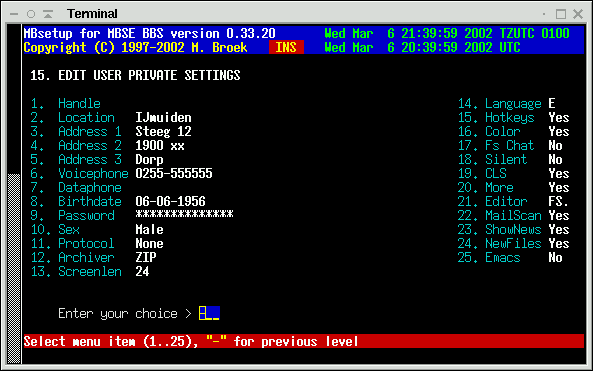
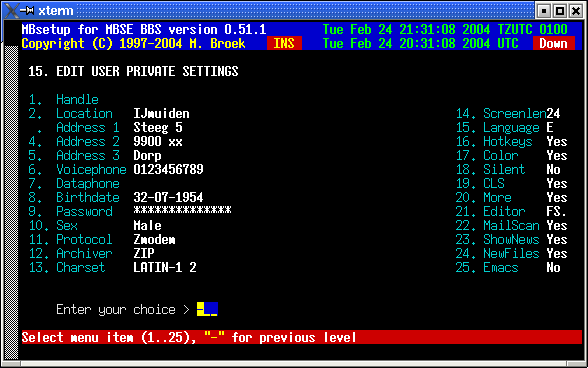
Changed user editor

Changed region(s): [[0.0, 0.0, 1.0, 1.0], [0.0918, 0.8071, 0.3673, 0.8668]]

diff --git a/html/setup/users.html b/html/setup/users.html
@@ -14,7 +14,7 @@
 </HEAD>
 <BODY>
 <BLOCKQUOTE>
-<div align='right'><h5>Last update 01-May-2002</h5></div>
+<div align='right'><h5>Last update 24-Feb-2004</h5></div>
 <div align='center'><H1>MBSE BBS Setup - BBS Users.</H1></div>
 
 <H3>Introduction.</H3>
@@ -79,6 +79,7 @@ system password file and the users home directory manually.
 <strong>Sex          </strong>Users sex, male or female.
 <strong>Protocol     </strong>The selected file transfer protocol.
 <strong>Archiver     </strong>The selected archiver.
+<strong>Charset      </strong>The users preffered character set.
 <strong>Screenlen    </strong>The length (lines) of the users screen.
 <strong>Language     </strong>The language the user uses.
 <strong>Hotkeys      </strong>Hotkeys on/off.

diff --git a/mbsetup/m_users.c b/mbsetup/m_users.c
@@ -295,20 +295,20 @@ void Screen2(void)
 	mvprintw(15, 2, "10. Sex");
 	mvprintw(16, 2, "11. Protocol");
 	mvprintw(17, 2, "12. Archiver");
-	mvprintw(18, 2, "13. Screenlen");
+	mvprintw(18, 2, "13. Charset");
 
-	mvprintw( 6,63, "14. Language");
-	mvprintw( 7,63, "15. Hotkeys");
-	mvprintw( 8,63, "16. Color");
-	mvprintw( 9,63, "17. Fs Chat");
-	mvprintw(10,63, "18. Silent");
-	mvprintw(11,63, "19. CLS");
-	mvprintw(12,63, "20. More");
-	mvprintw(13,63, "21. Editor");
-	mvprintw(14,63, "22. MailScan");
-	mvprintw(15,63, "23. ShowNews");
-	mvprintw(16,63, "24. NewFiles");
-	mvprintw(17,63, "25. Emacs");
+	mvprintw( 7,63, "14. Screenlen");
+	mvprintw( 8,63, "15. Language");
+	mvprintw( 9,63, "16. Hotkeys");
+	mvprintw(10,63, "17. Color");
+	mvprintw(11,63, "18. Silent");
+	mvprintw(12,63, "19. CLS");
+	mvprintw(13,63, "20. More");
+	mvprintw(14,63, "21. Editor");
+	mvprintw(15,63, "22. MailScan");
+	mvprintw(16,63, "23. ShowNews");
+	mvprintw(17,63, "24. NewFiles");
+	mvprintw(18,63, "25. Emacs");
 }
 
 
@@ -330,100 +330,114 @@ void Fields2(void)
 	show_str( 15,17, 7,usrconfig.sSex);
 	show_str( 16,17,12,usrconfig.sProtocol);
 	show_str( 17,17, 5,usrconfig.Archiver);
-	show_int( 18,17,   usrconfig.iScreenLen);
+	show_charset(18,17,usrconfig.Charset);
 
+	show_int(  7,76,   usrconfig.iScreenLen);
 	sprintf(temp, "%c",usrconfig.iLanguage);
-	show_str(  6,76,1, temp);
-	show_bool( 7,76,   usrconfig.HotKeys);
-	show_bool( 8,76,   usrconfig.GraphMode);
-	show_bool( 9,76,   usrconfig.Chat);
-	show_bool(10,76,   usrconfig.DoNotDisturb);
-	show_bool(11,76,   usrconfig.Cls);
-	show_bool(12,76,   usrconfig.More);
-	show_msgeditor(13,76, usrconfig.MsgEditor);
-	show_bool(14,76,   usrconfig.MailScan);
-	show_bool(15,76,   usrconfig.ieNEWS);
-	show_bool(16,76,   usrconfig.ieFILE);
-	show_bool(17,76,   usrconfig.FSemacs);
+	show_str(  8,76,1, temp);
+	show_bool( 9,76,   usrconfig.HotKeys);
+	show_bool(10,76,   usrconfig.GraphMode);
+	show_bool(11,76,   usrconfig.DoNotDisturb);
+	show_bool(12,76,   usrconfig.Cls);
+	show_bool(13,76,   usrconfig.More);
+	show_msgeditor(14,76, usrconfig.MsgEditor);
+	show_bool(15,76,   usrconfig.MailScan);
+	show_bool(16,76,   usrconfig.ieNEWS);
+	show_bool(17,76,   usrconfig.ieFILE);
+	show_bool(18,76,   usrconfig.FSemacs);
 }
 
 
 
 int EditUsrRec2(void)
 {
-	int	j = 0;
-	char	temp[PATH_MAX];
+    int	    j = 0, ch;
+    char    temp[PATH_MAX];
 
-        Screen2();
-        for (;;) {
-                Fields2();
-                j = select_menu(25);
-                switch(j) {
-                case 0: return 0;
-                case 1: E_STR( 6,17,35,usrconfig.sHandle,  "The ^Handle^ of this user")
-                case 2: E_STR( 7,17,27,usrconfig.sLocation,"The users ^Location^")
-                case 3:
-                case 4:
-                case 5: E_STR(j+5,17,40,usrconfig.address[j-3],"^Address^")
-                case 6: E_STR(11,17,16, usrconfig.sVoicePhone, "The ^Voice Phone^ number of this user")
-                case 7: E_STR(12,17,16, usrconfig.sDataPhone,  "The ^Data Phone^ number of this user")
-                case 8: E_STR(13,17,10, usrconfig.sDateOfBirth,"The ^Date of Birth^ in DD-MM-YYYY format")
-                case 9: strcpy(temp,edit_str(14,17,Max_passlen,usrconfig.Password,(char *)"Enter the ^password^ for this user"));
-                        if (strlen(temp)) {
-			    if (strcasecmp(usrconfig.Password, temp)) {
-				/*
-				 * Only do something if password really changed.
-				 */
-				working(1,0,0);
-                                memset(&usrconfig.Password, 0, sizeof(usrconfig.Password));
-                                strcpy(usrconfig.Password, temp);
-				usrconfig.tLastPwdChange = time(NULL);
-				Syslog('+', "%s/bin/mbpasswd -f %s ******", getenv("MBSE_ROOT"), usrconfig.Name);
-				sprintf(temp, "%s/bin/mbpasswd -f %s %s", getenv("MBSE_ROOT"), usrconfig.Name, usrconfig.Password);
-				if (system(temp) != 0) {
-				    WriteError("$Failed to set new Unix password");
-				} else {
-				    Syslog('+', "Password changed for %s (%s)", usrconfig.sUserName, usrconfig.Name);
-				}
+    Screen2();
+    for (;;) {
+        Fields2();
+        j = select_menu(25);
+        switch(j) {
+            case 0: return 0;
+            case 1: E_STR( 6,17,35,usrconfig.sHandle,  "The ^Handle^ of this user")
+            case 2: E_STR( 7,17,27,usrconfig.sLocation,"The users ^Location^")
+            case 3:
+            case 4:
+            case 5: E_STR(j+5,17,40,usrconfig.address[j-3],"^Address^")
+            case 6: E_STR(11,17,16, usrconfig.sVoicePhone, "The ^Voice Phone^ number of this user")
+            case 7: E_STR(12,17,16, usrconfig.sDataPhone,  "The ^Data Phone^ number of this user")
+            case 8: E_STR(13,17,10, usrconfig.sDateOfBirth,"The ^Date of Birth^ in DD-MM-YYYY format")
+            case 9: strcpy(temp,edit_str(14,17,Max_passlen,usrconfig.Password,(char *)"Enter the ^password^ for this user"));
+                    if (strlen(temp)) {
+			if (strcasecmp(usrconfig.Password, temp)) {
+			    /*
+			     * Only do something if password really changed.
+			     */
+			    working(1,0,0);
+                            memset(&usrconfig.Password, 0, sizeof(usrconfig.Password));
+                            strcpy(usrconfig.Password, temp);
+			    usrconfig.tLastPwdChange = time(NULL);
+			    Syslog('+', "%s/bin/mbpasswd -f %s ******", getenv("MBSE_ROOT"), usrconfig.Name);
+			    sprintf(temp, "%s/bin/mbpasswd -f %s %s", getenv("MBSE_ROOT"), usrconfig.Name, usrconfig.Password);
+			    if (system(temp) != 0) {
+			        WriteError("$Failed to set new Unix password");
+			    } else {
+			        Syslog('+', "Password changed for %s (%s)", usrconfig.sUserName, usrconfig.Name);
 			    }
-                        } else {
-			    working(2, 0, 0);
 			}
-                        break;
-                case 10:strcpy(usrconfig.sSex, tl(edit_str(15,17,7, usrconfig.sSex, (char *)"^Male^ or ^Female^")));
-                        break;
-                case 11:strcpy(temp, PickProtocol(15));
-                        if (strlen(temp) != 0)
-                                strcpy(usrconfig.sProtocol, temp);
-                        clr_index();
-                        Screen2();
-                        break;
-                case 12:strcpy(temp, PickArchive((char *)"15"));
-                        if (strlen(temp) != 0)
-                                strcpy(usrconfig.Archiver, temp);
-                        clr_index();
-                        Screen2();
-                        break;
-		case 13:E_INT( 18,17,usrconfig.iScreenLen,   "Users ^Screen length^ in lines (about 24)")
+                    } else {
+		        working(2, 0, 0);
+		    }
+                    break;
+            case 10:showhelp((char *)"Toggle ^Sex^ with spacebar, press <Enter> when done.");
+		    do {
+			set_color(YELLOW, BLUE);
+			show_str(15,17,7, usrconfig.sSex);
+			ch = readkey(15, 17, YELLOW, BLUE);
+			if (ch == ' ') {
+			    if (strcmp(usrconfig.sSex, "Male") == 0)
+				strcpy(usrconfig.sSex, "Female");
+			    else {
+				strcpy(usrconfig.sSex, "Male\0\0");
+			    }
+			}
+		    } while (ch != KEY_ENTER && ch != '\012');
+		    set_color(WHITE, BLACK);
+		    show_str(15,17,7, usrconfig.sSex);
+                    break;
+            case 11:strcpy(temp, PickProtocol(15));
+                    if (strlen(temp) != 0)
+                        strcpy(usrconfig.sProtocol, temp);
+                    clr_index();
+                    Screen2();
+                    break;
+            case 12:strcpy(temp, PickArchive((char *)"15"));
+                    if (strlen(temp) != 0)
+                        strcpy(usrconfig.Archiver, temp);
+                    clr_index();
+                    Screen2();
+                    break;
+	    case 13:usrconfig.Charset = edit_charset(18,17, usrconfig.Charset); break;
 
-		case 14:usrconfig.iLanguage = PickLanguage((char *)"15.14");
-			clr_index();
-			Screen2();
-			break;
-                case 15:E_BOOL( 7,76,usrconfig.HotKeys,      "Is user using ^HotKeys^ for menus")
-                case 16:E_BOOL( 8,76,usrconfig.GraphMode,    "Is user using ^ANSI^ colors")
-                case 17:E_BOOL( 9,76,usrconfig.Chat,         "User has ^IEMSI Chat^ capability")
-                case 18:E_BOOL(10,76,usrconfig.DoNotDisturb, "User will not be ^disturbed^")
-                case 19:E_BOOL(11,76,usrconfig.Cls,          "Send ^ClearScreen code^ to users terminal")
-                case 20:E_BOOL(12,76,usrconfig.More,         "User uses the ^More prompt^")
-                case 21:usrconfig.MsgEditor = edit_msgeditor(13,76,usrconfig.MsgEditor);
-			break;
-                case 22:E_BOOL(14,76,usrconfig.MailScan,     "Don't check for ^new mail^")
-                case 23:E_BOOL(15,76,usrconfig.ieNEWS,       "Show ^News Bulletins^ when logging in")
-                case 24:E_BOOL(16,76,usrconfig.ieFILE,       "Show ^New Files^ when logging in")
-                case 25:E_BOOL(17,76,usrconfig.FSemacs,      "Use ^Emacs^ or Wordstart shorcut keys in FS editor")
-                }
+	    case 14:E_INT(  7,76,usrconfig.iScreenLen,   "Users ^Screen length^ in lines (about 24)")
+	    case 15:usrconfig.iLanguage = PickLanguage((char *)"15.15");
+		    clr_index();
+		    Screen2();
+		    break;
+            case 16:E_BOOL( 9,76,usrconfig.HotKeys,      "Is user using ^HotKeys^ for menus")
+            case 17:E_BOOL(10,76,usrconfig.GraphMode,    "Is user using ^ANSI^ colors")
+            case 18:E_BOOL(11,76,usrconfig.DoNotDisturb, "User will not be ^disturbed^")
+            case 19:E_BOOL(12,76,usrconfig.Cls,          "Send ^ClearScreen code^ to users terminal")
+            case 20:E_BOOL(13,76,usrconfig.More,         "User uses the ^More prompt^")
+            case 21:usrconfig.MsgEditor = edit_msgeditor(14,76,usrconfig.MsgEditor);
+		    break;
+            case 22:E_BOOL(15,76,usrconfig.MailScan,     "Don't check for ^new mail^")
+            case 23:E_BOOL(16,76,usrconfig.ieNEWS,       "Show ^News Bulletins^ when logging in")
+            case 24:E_BOOL(17,76,usrconfig.ieFILE,       "Show ^New Files^ when logging in")
+            case 25:E_BOOL(18,76,usrconfig.FSemacs,      "Use ^Emacs^ or Wordstart shorcut keys in FS editor")
         }
+    }
 }
 
 

diff --git a/lib/users.h b/lib/users.h
@@ -99,7 +99,7 @@ struct	userrec {
 	unsigned	GraphMode	: 1;	/* ANSI Mode ON/OFF         */
 	unsigned	Deleted		: 1;	/* Deleted Status           */
 	unsigned	NeverDelete	: 1;	/* Never Delete User        */
-	unsigned	Chat		: 1;	/* Has IEMSI Chatmode	    */
+	unsigned	xChat		: 1;
 	unsigned	LockedOut	: 1;	/* User is locked out	    */
 	unsigned	DoNotDisturb	: 1;	/* DoNot disturb	    */
 	unsigned	Cls		: 1;	/* CLS on/off		    */
